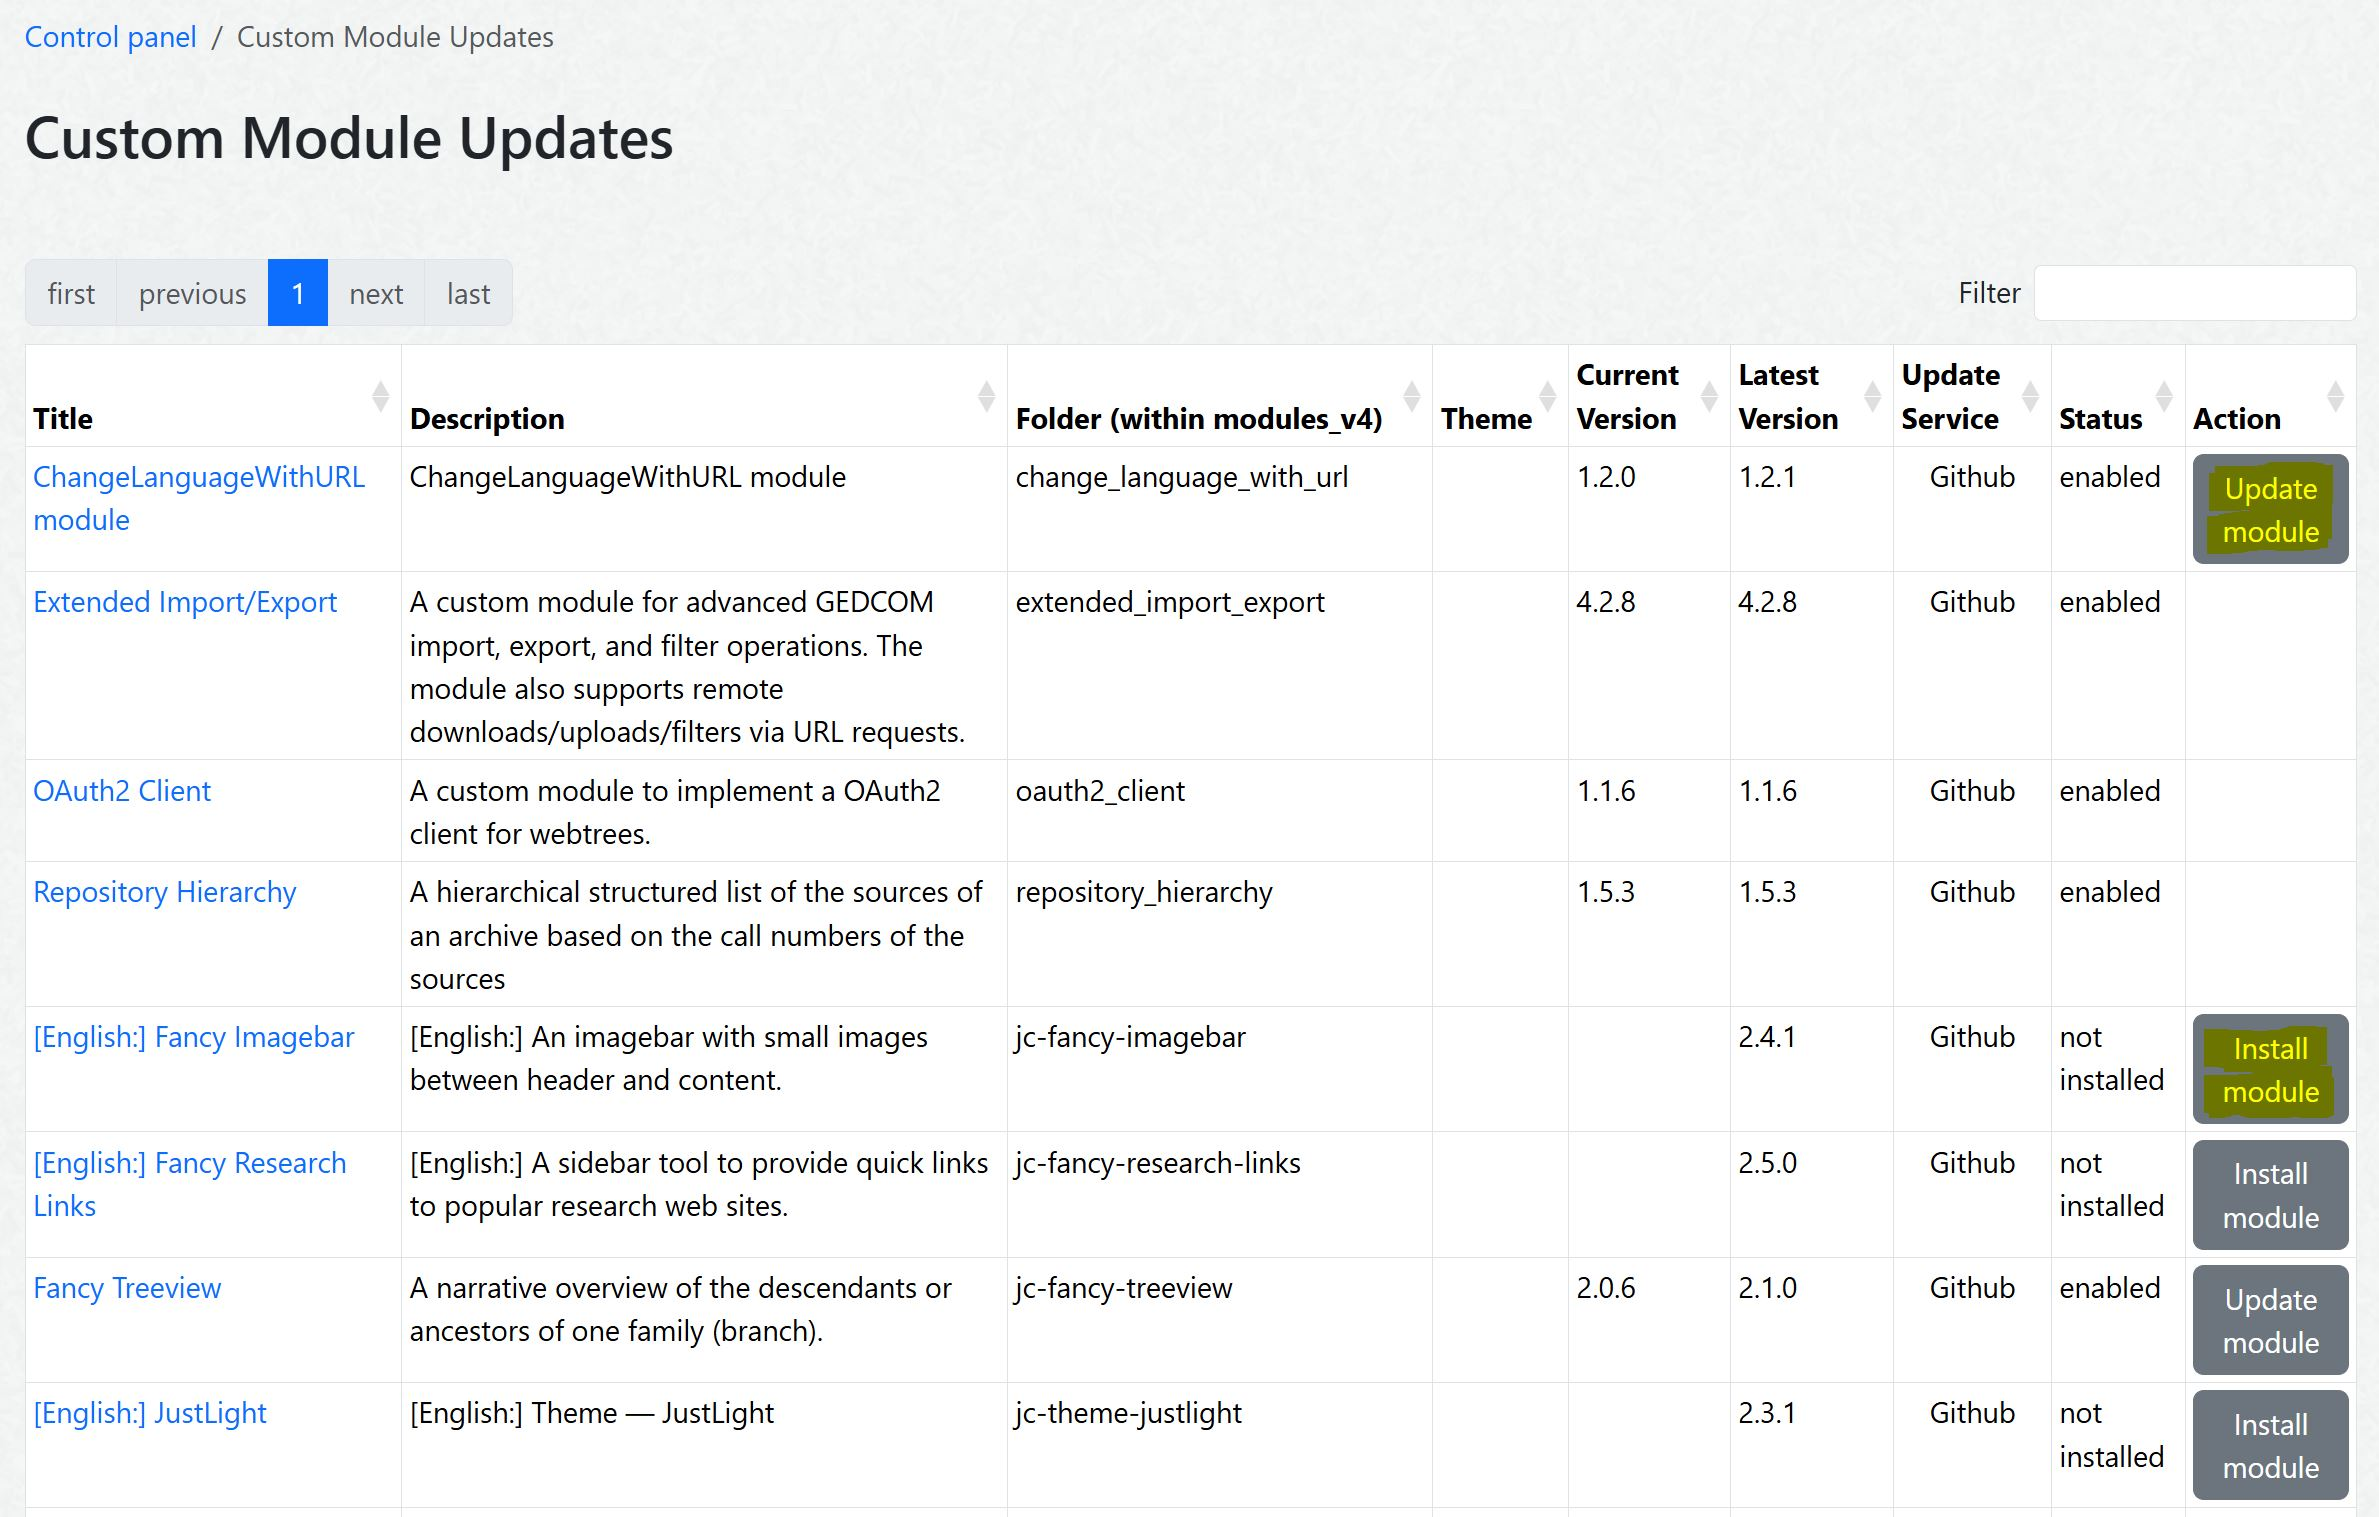
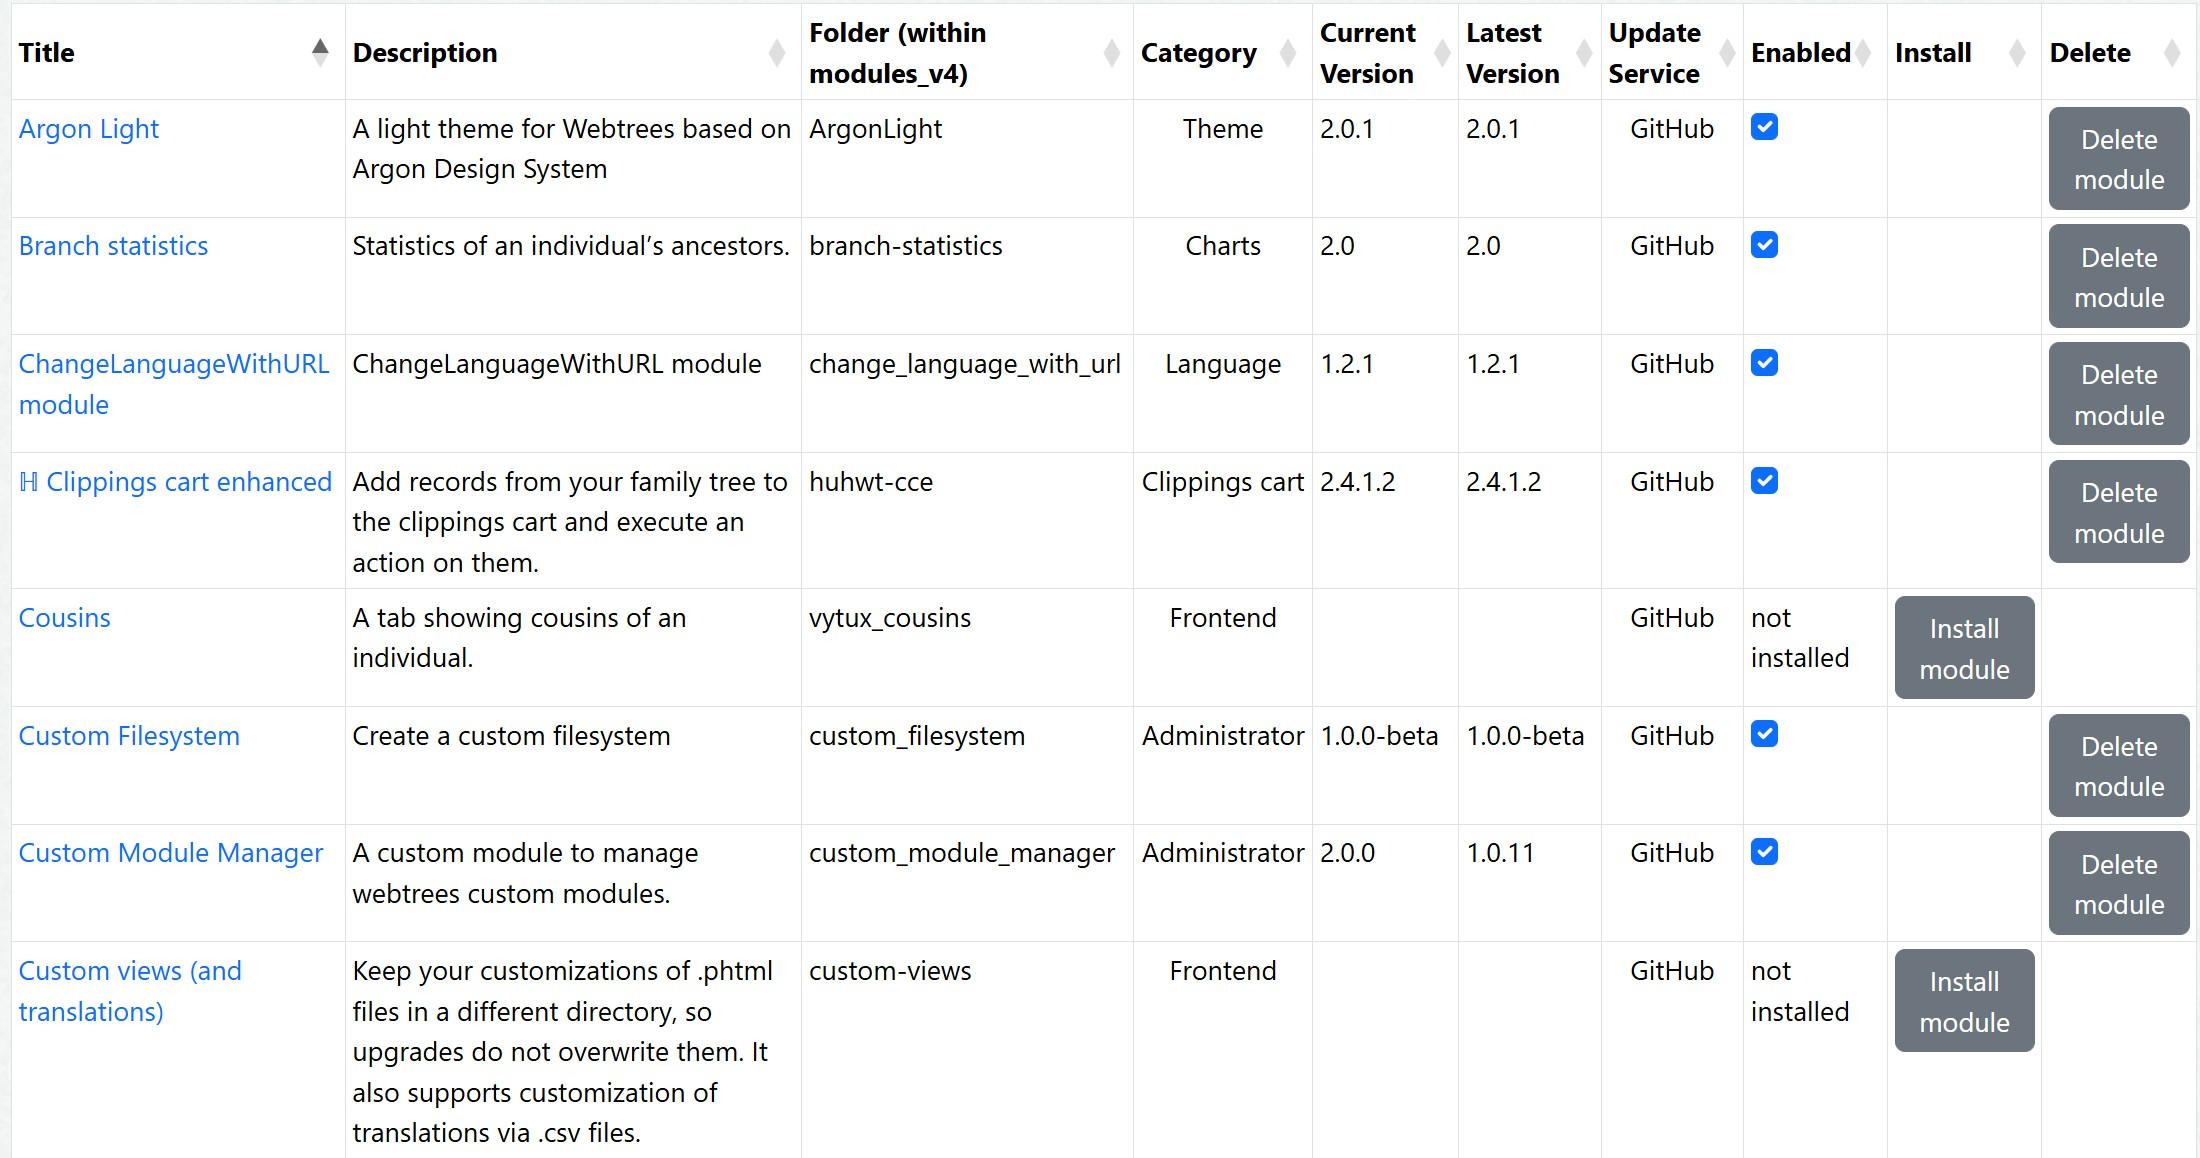
Updated Readme

diff --git a/README.md b/README.md
@@ -23,10 +23,11 @@ This README file contains the following main sections:
 + Support the download of custom modules
 + Support the installation of custom modules
 + Support the update of custom modules
++ Support activating/deactivating of custom modules
++ Support deleting custom modules
 
 **Optionally planned features:**
 + Check the compatibility of custom modules with the webtrees versions
-+ Enable/Disable custom modules
 + Save and restore the settings of a custom module
 
 ##  Screenshot
